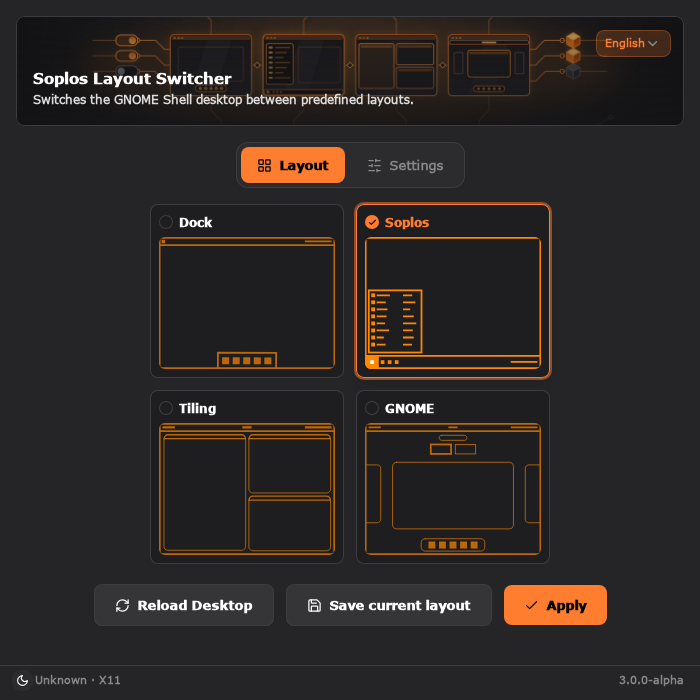
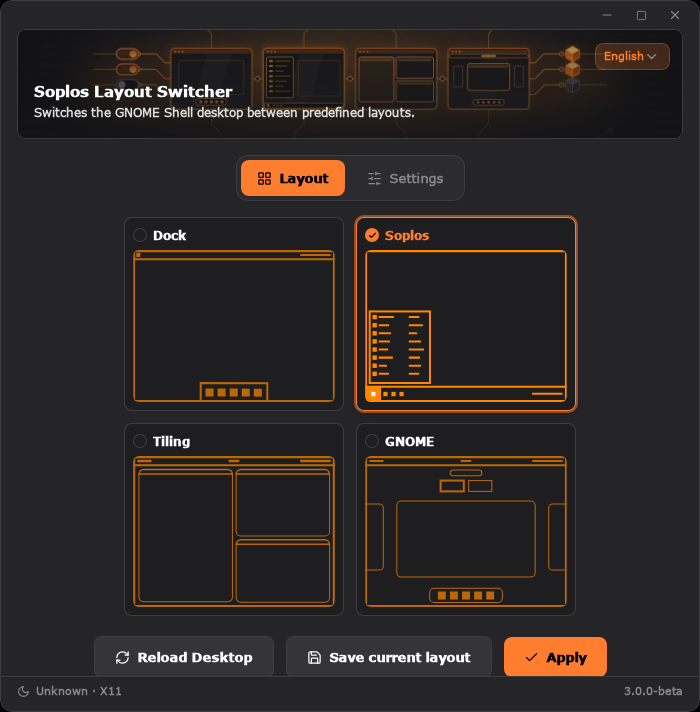
Frameless card window, new screenshots and bump to 3.0.0-1-beta

diff --git a/src/components/WindowControls.svelte b/src/components/WindowControls.svelte
@@ -1,0 +1,40 @@
+<script lang="ts">
+  import { getCurrentWindow } from "@tauri-apps/api/window";
+  import { _ } from "svelte-i18n";
+  import { Minus, Square, Copy, X } from "lucide-svelte";
+  import { maximized } from "../lib/window";
+
+  // The buttons of the window when the system draws no frame: minimize, maximize
+  // or restore, and close, at the top right of the card. They are plain icons;
+  // the accent of the theme shows under the pointer, and red only on close.
+  const win = getCurrentWindow();
+
+  const button = "grid h-[22px] w-8 place-items-center rounded text-text-muted transition-colors";
+</script>
+
+<div class="flex items-center gap-0.5">
+  <button
+    class="{button} hover:bg-primary/15 hover:text-primary"
+    title={$_("app.window.minimize")}
+    aria-label={$_("app.window.minimize")}
+    on:click={() => win.minimize()}
+  >
+    <Minus size={14} />
+  </button>
+  <button
+    class="{button} hover:bg-primary/15 hover:text-primary"
+    title={$maximized ? $_("app.window.restore") : $_("app.window.maximize")}
+    aria-label={$maximized ? $_("app.window.restore") : $_("app.window.maximize")}
+    on:click={() => win.toggleMaximize()}
+  >
+    {#if $maximized}<Copy size={11} />{:else}<Square size={11} />{/if}
+  </button>
+  <button
+    class="{button} hover:bg-danger hover:text-white"
+    title={$_("app.window.close")}
+    aria-label={$_("app.window.close")}
+    on:click={() => win.close()}
+  >
+    <X size={14} />
+  </button>
+</div>

diff --git a/src/App.svelte b/src/App.svelte
@@ -3,6 +3,8 @@
   import { getCurrentWindow } from "@tauri-apps/api/window";
   import { getVersion } from "@tauri-apps/api/app";
   import { _, locale } from "svelte-i18n";
+  import WindowControls from "./components/WindowControls.svelte";
+  import { frameless, maximized } from "./lib/window";
   import { LayoutGrid, SlidersHorizontal, Sun, Moon } from "lucide-svelte";
   import { api } from "./lib/api";
   import { busy } from "./lib/jobs";
@@ -67,8 +69,15 @@
 
 <svelte:window on:keydown={handleKeydown} />
 
-<div class="relative flex flex-col h-screen overflow-hidden">
-  <div class="p-4 pb-0 shrink-0">
+<div class="h-screen bg-dark {$frameless && !$maximized ? 'window-card' : ''}">
+<div class="relative flex flex-col h-full overflow-hidden">
+  {#if $frameless}
+    <div class="relative h-7 shrink-0" data-tauri-drag-region>
+      <div class="absolute right-2 top-[3px]"><WindowControls /></div>
+    </div>
+  {/if}
+
+  <div class="p-4 pb-0 shrink-0 {$frameless ? 'pt-0' : ''}" data-tauri-drag-region="deep">
     <div
       class="relative rounded border border-border overflow-hidden flex flex-col items-start justify-end p-4 min-h-[110px]"
       style="background: linear-gradient(rgba(20, 20, 22, 0.25), rgba(20, 20, 22, 0.82)), url('/assets/hero/layout-switcher-background.jpg'), linear-gradient(135deg, #3a2412, #1b1b1d); background-size: cover; background-position: center;"
@@ -151,3 +160,4 @@
 {/if}
 
 <DialogHost />
+</div>

diff --git a/src/lib/window.ts b/src/lib/window.ts
@@ -1,0 +1,21 @@
+import { writable } from "svelte/store";
+import { getCurrentWindow } from "@tauri-apps/api/window";
+
+// Whether the system draws a frame around the window. With `decorations` off in
+// tauri.conf.json it does not: the window is one card with rounded corners (the
+// .window-card rule of global.css) and the program shows its own window buttons
+// (WindowControls.svelte). With it on, none of that shows.
+export const frameless = writable(false);
+export const maximized = writable(false);
+
+(async () => {
+  try {
+    const win = getCurrentWindow();
+    if (await win.isDecorated()) return;
+    frameless.set(true);
+    maximized.set(await win.isMaximized());
+    await win.onResized(async () => maximized.set(await win.isMaximized()));
+  } catch {
+    // Not inside Tauri (a browser while developing): leave the window as it is.
+  }
+})();

diff --git a/src/styles/global.css b/src/styles/global.css
@@ -38,12 +38,24 @@
 
   body {
     font-family: "Segoe UI", Tahoma, Geneva, Verdana, sans-serif;
-    background: theme("colors.dark");
+    /* The background is the one of the window card (App.svelte): the body stays
+       transparent so the corners of a window with no frame can be rounded. */
+    background: transparent;
     color: theme("colors.text.DEFAULT");
     height: 100vh;
     margin: 0;
     overflow: hidden;
   }
+}
+
+/*
+ * The window when the system draws no frame: one card with rounded corners.
+ * clip-path also cuts the dialogs (position: fixed), which overflow does not.
+ */
+.window-card {
+  border-radius: 12px;
+  border: 1px solid rgb(var(--color-border));
+  clip-path: inset(0 round 12px);
 }
 
 .content-scroll {

diff --git a/CHANGELOG.md b/CHANGELOG.md
@@ -2,6 +2,12 @@
 
 All notable changes to Soplos Layout Switcher are documented in this file.
 
+## [3.0.0-1-beta] - 2026-10-29
+
+### Changed
+
+- The window no longer has the frame of the system: it is a card with rounded corners and its own minimize, maximize and close buttons at the top right. It can be moved from the top strip, the banner and the side bar, and double click on the strip maximizes it. The rounded corners need a compositing manager running, as the one of Xfce, Plasma or GNOME.
+
 ## [3.0.0-beta] - 2026-10-29
 
 First beta, the version being tested on real hardware.

diff --git a/README.md b/README.md
@@ -1,6 +1,6 @@
 # Soplos Layout Switcher 3.0
 
-![Version](https://img.shields.io/badge/version-3.0.0--beta-blue)
+![Version](https://img.shields.io/badge/version-3.0.0--1--beta-blue)
 ![License](https://img.shields.io/badge/license-GPL--3.0--or--later-green)
 ![Platform](https://img.shields.io/badge/platform-Linux-lightgrey)
 ![Tauri](https://img.shields.io/badge/Tauri-2-orange)
